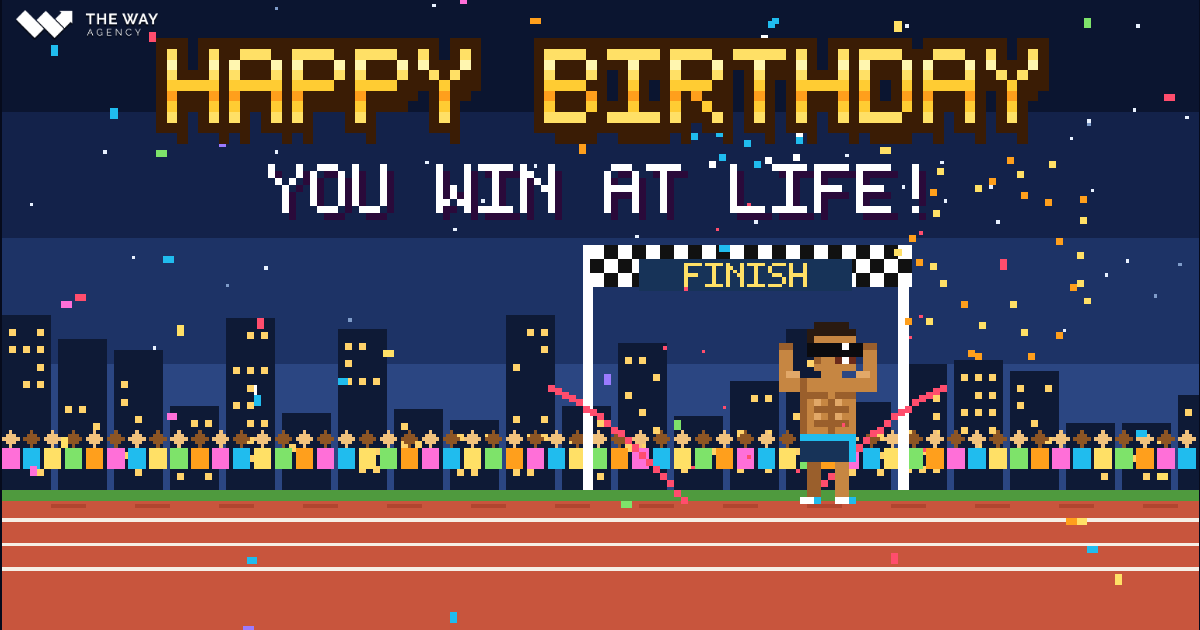
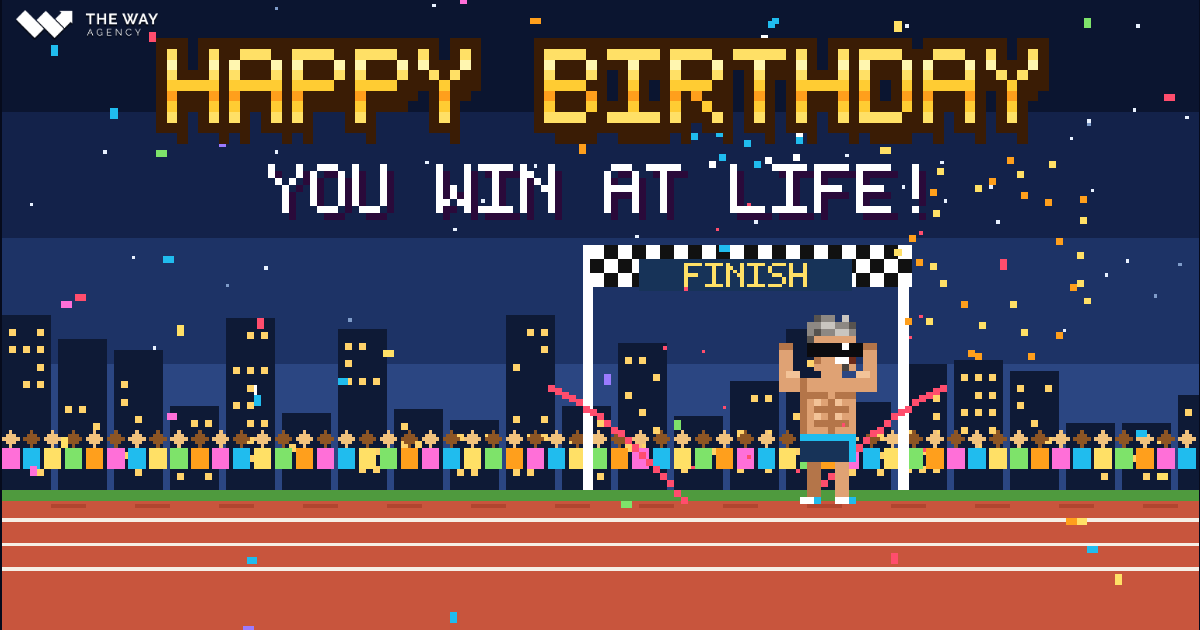
Birthday card: hero sprite modeled on the client's photo
Salt-and-pepper tousled hair fuller on top, lighter sun-tanned skin, a
small goatee and a wider grin; keeps the shades, six-pack and runner kit.
Preview image re-rendered with the new sprite.

Changed region(s): [[0.6475, 0.4825, 0.74, 0.6937], [0.6475, 0.7238, 0.7092, 0.7841]]

diff --git a/src/js/birthday.js b/src/js/birthday.js
@@ -232,8 +232,10 @@
   }
 
   // ── the birthday hero ──
-  // Tan, shirtless, six-pack, black shades, a runner in The Way Agency navy shorts.
-  var SKIN = '#c68642', SKIN_D = '#9a5f2c', SKIN_L = '#e2a868', HAIR = '#2a1a10', SHADE = '#0b0b0f', SHORTS = NAVY;
+  // Sun-tanned, tousled salt-and-pepper hair, a little goatee, big grin, shirtless with a
+  // six-pack and black shades: a runner in The Way Agency navy shorts.
+  var SKIN = '#dfa274', SKIN_D = '#b47549', SKIN_L = '#f3c398', SHADE = '#0b0b0f', SHORTS = NAVY;
+  var HAIR = '#8d8883', HAIR_D = '#57534f', HAIR_L = '#c9c5bf', GOATEE = '#4a4440';
   // pose: 'run0' | 'run1' | 'stand' | 'flex' | 'blow' | 'wave'. (x, y) = feet centre, s = pixel size.
   // Facing right; 14 x 26 grid.
   function hero(ctx, x, y, s, pose, t, opts) {
@@ -290,13 +292,18 @@
       P(SKIN_D, 2, 9, 1, 6); P(SKIN, 11, 9, 1, 6);
     }
     // head
-    P(HAIR, 5, 0, 5, 1); P(HAIR, 4, 1, 7, 1); P(HAIR, 4, 2, 1, 2);
+    // tousled salt-and-pepper, fuller on top (one row above the grid)
+    P(HAIR_D, 5, -1, 1, 1); P(HAIR, 6, -1, 2, 1); P(HAIR_L, 9, -1, 1, 1);
+    P(HAIR, 4, 0, 7, 1); P(HAIR_L, 6, 0, 2, 1); P(HAIR_D, 10, 0, 1, 1);
+    P(HAIR, 4, 1, 7, 1); P(HAIR_D, 5, 1, 1, 1); P(HAIR_L, 8, 1, 2, 1);
+    P(HAIR_D, 4, 2, 1, 2); P(HAIR, 5, 2, 1, 1);
     P(SKIN, 5, 2, 6, 5); P(SKIN_D, 5, 5, 1, 1);
     P(SHADE, 4, 3, 8, 2);                                     // wrap-around black shades
     if (opts.glint || Math.floor(t * 2.2) % 5 === 0) P('#ffffff', 9, 3, 1, 1);
     P(SKIN, 6, 7, 3, 1);                                      // neck
     if (pose === 'blow') { P(SKIN_L, 10, 5, 2, 2); P('#6b2a1a', 11, 5, 1, 1); }
-    else { P('#6b2a1a', 8, 5, 3, 1); P('#ffffff', 9, 5, 1, 1); }  // grin
+    else { P('#6b2a1a', 8, 5, 3, 1); P('#ffffff', 8, 5, 2, 1); }  // big grin
+    P(GOATEE, 9, 6, 1, 1);                                    // goatee
   }
 
   // ── vehicles (side view, facing right). (x, y) = left end of the body, y = ground. ──

diff --git a/src/pages/happy-birthday.html b/src/pages/happy-birthday.html
@@ -79,7 +79,7 @@
 </head>
 <body>
   <h1 class="sr-only" id="bdTitle">Happy birthday!</h1>
-  <div class="bd-stage"><canvas id="bdayCanvas" role="img" aria-label="A looping 16-bit birthday animation: a runner in black sunglasses sprints a track, his house and cars get covered from a storm by The Way Agency's shield, he wins the race to a happy birthday banner and fireworks, and blows out the candles on a giant cake boss."></canvas></div>
+  <div class="bd-stage"><canvas id="bdayCanvas" role="img" aria-label="A looping 16-bit birthday animation: a salt-and-pepper-haired runner in black sunglasses sprints a track, his house and cars get covered from a storm by The Way Agency's shield, he wins the race to a happy birthday banner and fireworks, and blows out the candles on a giant cake boss."></canvas></div>
 
   <div class="bd-top">
     <a class="bd-logo" href="/" aria-label="The Way Agency home"><img src="/src/assets/images/logo-horizontal-white-2x.png" alt="The Way Agency" width="142" height="28"></a>
